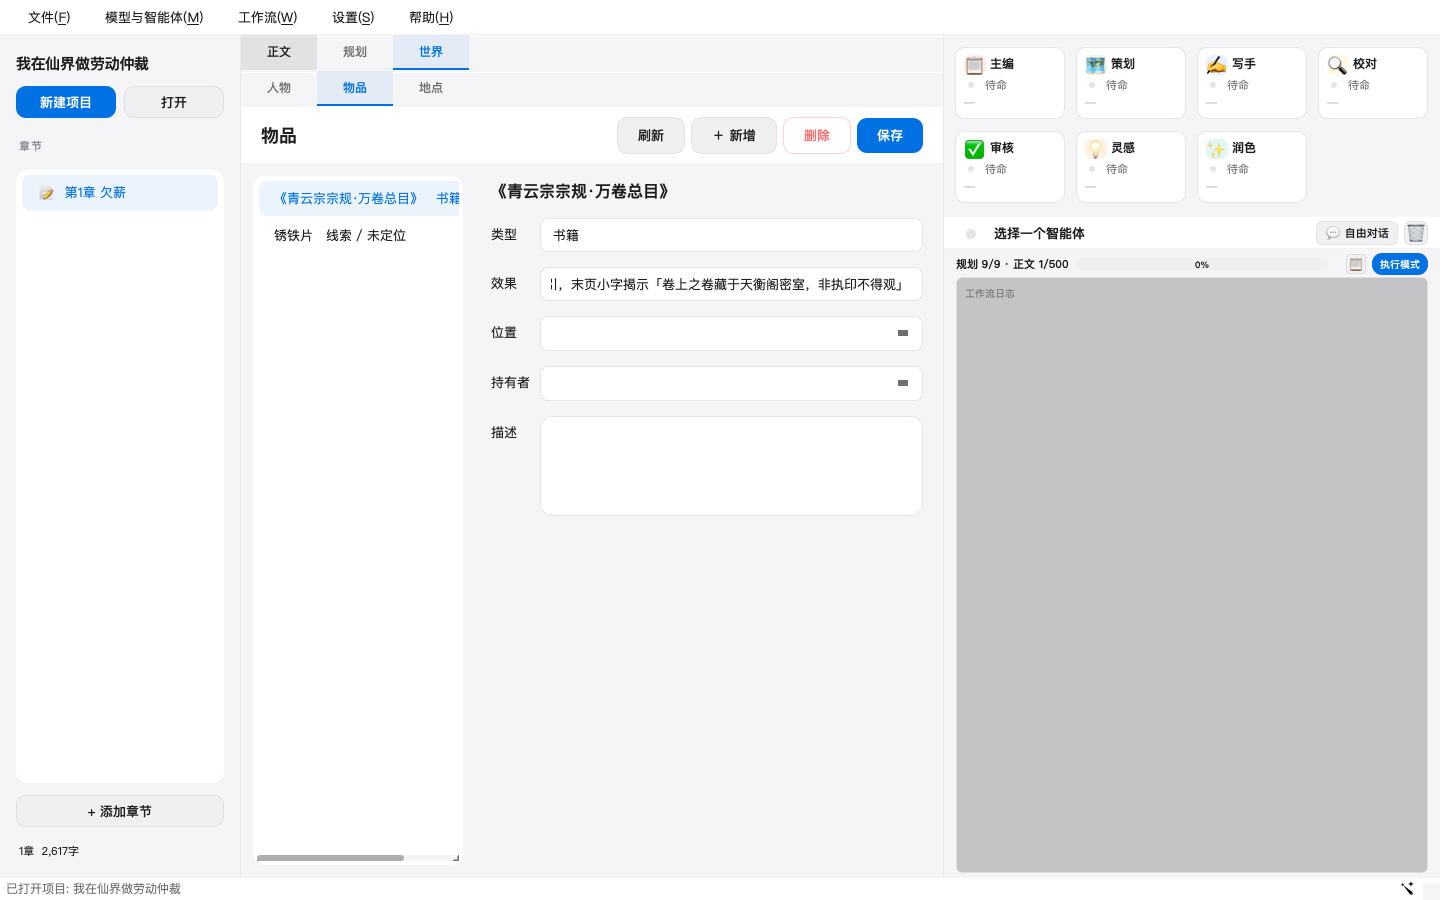
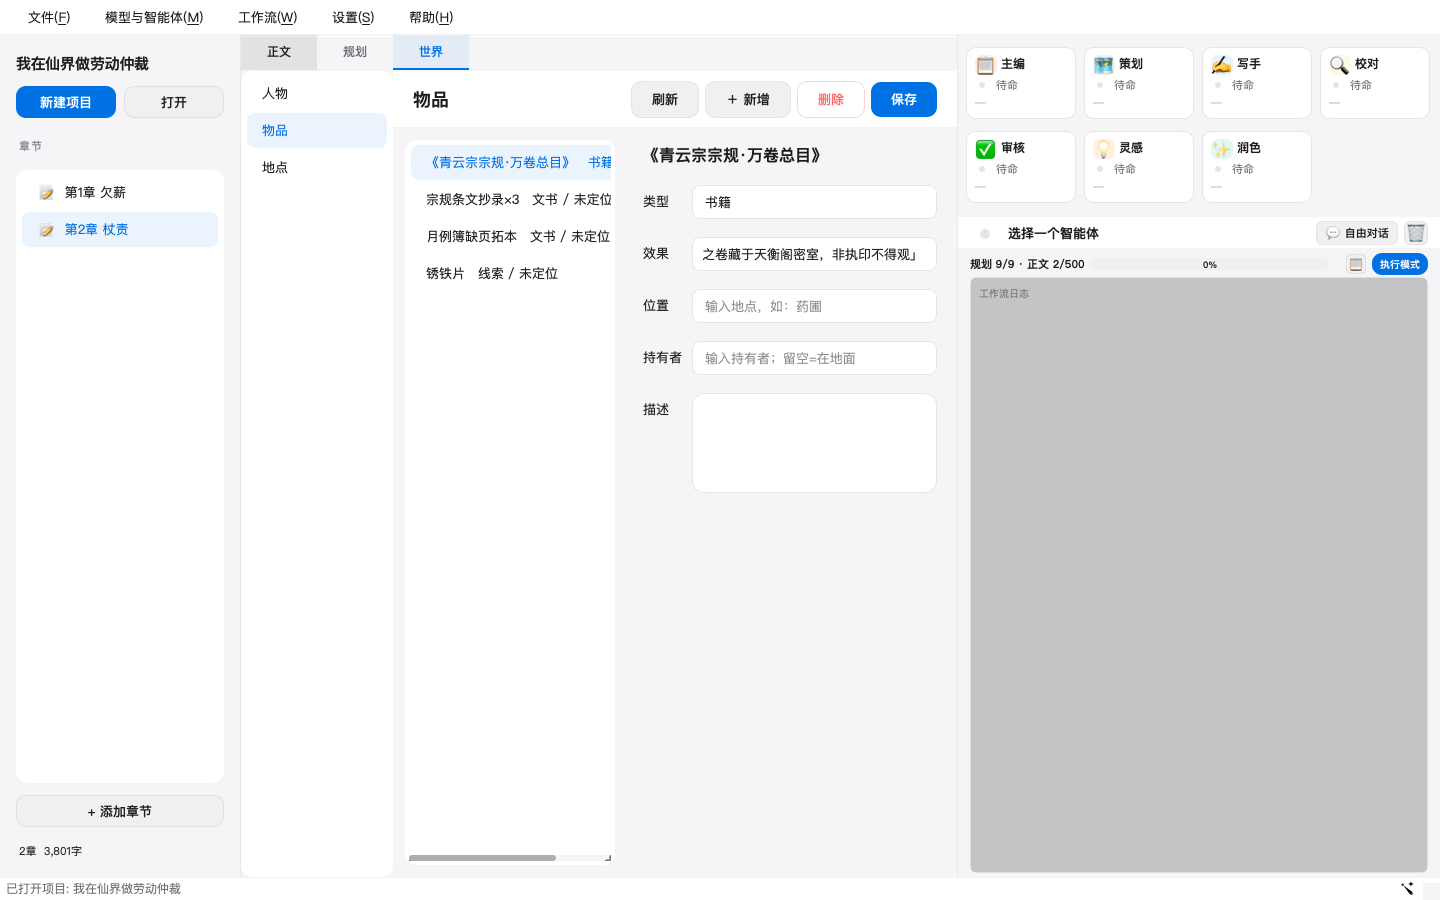
fix(ui): 世界页改左侧菜单；物品位置/持有者改输入框
- 人物/物品/地点改为与规划一致的左侧竖排菜单，去掉第二排横向 tab
- 物品位置、持有者改用 QLineEdit，可自由输入
- 地点页自动补全人物/物品引用到但未登记的地点
- 当前项目实测执事堂 3 人在场
- 300 passed

diff --git a/src/novel_writer/ui/character/world_page.py b/src/novel_writer/ui/character/world_page.py
@@ -5,8 +5,8 @@ from pathlib import Path
 
 from PySide6.QtCore import Qt
 from PySide6.QtWidgets import (
-    QComboBox, QFormLayout, QHBoxLayout, QInputDialog, QLabel, QLineEdit,
-    QListWidget, QListWidgetItem, QMessageBox, QPlainTextEdit, QPushButton,
+    QFormLayout, QHBoxLayout, QInputDialog, QLabel, QLineEdit,
+    QListWidget, QListWidgetItem, QMessageBox, QStackedWidget, QPlainTextEdit, QPushButton,
     QTabWidget, QVBoxLayout, QWidget,
 )
 
@@ -63,6 +63,7 @@ class _WorldBase(QWidget):
     def reload(self):
         if not self.gs:
             self.list.clear(); self.name_label.setText("打开项目后管理"); return
+        self.gs.load()
         self.list.blockSignals(True); self.list.clear()
         for name in self._names():
             item = QListWidgetItem(self._label(name)); item.setData(Qt.ItemDataRole.UserRole, name); self.list.addItem(item)
@@ -110,8 +111,10 @@ class ItemPage(_WorldBase):
         super()._setup_ui()
         self.type = QLineEdit(); self.form.addRow("类型", self.type)
         self.effect = QLineEdit(); self.form.addRow("效果", self.effect)
-        self.location = QComboBox(); self.location.setEditable(True); self.form.addRow("位置", self.location)
-        self.holder = QComboBox(); self.holder.setEditable(True); self.form.addRow("持有者", self.holder)
+        self.location = QLineEdit(); self.location.setPlaceholderText("输入地点，如：药圃")
+        self.form.addRow("位置", self.location)
+        self.holder = QLineEdit(); self.holder.setPlaceholderText("输入持有者；留空=在地面")
+        self.form.addRow("持有者", self.holder)
         self.desc = QPlainTextEdit(); self.desc.setMaximumHeight(100); self.form.addRow("描述", self.desc)
 
     def _names(self): return sorted((self.gs.items_catalog or {}).keys())
@@ -121,19 +124,18 @@ class ItemPage(_WorldBase):
         return f"{name}   {it.get('type','')} / {pos}"
 
     def _load(self, name):
-        self.location.clear(); self.holder.clear()
         if not self.gs: return
-        self.location.addItems(sorted(self.gs.locations.keys()))
-        self.holder.addItems(list(self.gs.characters.keys()))
-        self.location.setEditText(""); self.holder.setEditText("")
         if not name:
-            self.name_label.setText("还没有物品"); return
+            self.name_label.setText("还没有物品")
+            self.type.setText(""); self.effect.setText(""); self.location.setText("")
+            self.holder.setText(""); self.desc.setPlainText("")
+            return
         it = self.gs.items_catalog.get(name) or {}
         self.name_label.setText(name)
         self.type.setText(str(it.get("type") or ""))
         self.effect.setText(str(it.get("effect") or ""))
-        self.location.setEditText(str(it.get("location") or ""))
-        self.holder.setEditText(str(it.get("holder") or ""))
+        self.location.setText(str(it.get("location") or ""))
+        self.holder.setText(str(it.get("holder") or ""))
         self.desc.setPlainText(str(it.get("description") or ""))
 
     def _sync(self):
@@ -142,8 +144,8 @@ class ItemPage(_WorldBase):
         if not isinstance(it, dict): return
         it.update({"type": self.type.text().strip(), "effect": self.effect.text().strip(),
                    "description": self.desc.toPlainText().strip()})
-        self.gs.set_item_position(name, location=self.location.currentText().strip(),
-                                  holder=self.holder.currentText().strip())
+        self.gs.set_item_position(name, location=self.location.text().strip(),
+                                  holder=self.holder.text().strip())
 
     def _create(self, name): self.gs.add_item(name, {"type": "", "effect": "", "description": ""})
     def _remove(self, name): self.gs.items_catalog.pop(name, None)
@@ -161,7 +163,9 @@ class LocationPage(_WorldBase):
         self.people_hint = QLabel("人物所在地点请在「人物」页修改"); self.people_hint.setStyleSheet("font-size: 11px; color: gray;")
         self.form_layout.addWidget(self.people_hint)
 
-    def _names(self): return sorted((self.gs.locations or {}).keys())
+    def _names(self):
+        self.gs.sync_locations()
+        return self.gs.referenced_locations()
     def _label(self, name):
         loc = (self.gs.locations.get(name) or {})
         return f"{name}   {loc.get('type','')} · {len(self.gs.characters_at(name))}人"
@@ -170,6 +174,7 @@ class LocationPage(_WorldBase):
         if not self.gs: return
         if not name:
             self.name_label.setText("还没有地点"); self.occupants.setText(""); self.items.setText(""); return
+        self.gs.locations.setdefault(name, {})
         loc = self.gs.locations.get(name) or {}
         self.name_label.setText(name); self.type.setText(str(loc.get("type") or "")); self.desc.setPlainText(str(loc.get("description") or ""))
         people = self.gs.characters_at(name); items = self.gs.items_at(name)
@@ -178,7 +183,9 @@ class LocationPage(_WorldBase):
 
     def _sync(self):
         if not self.gs or self.name_label.text() in ("还没有地点", "打开项目后管理"): return
-        name = self.name_label.text(); loc = self.gs.locations.get(name)
+        name = self.name_label.text()
+        self.gs.locations.setdefault(name, {})
+        loc = self.gs.locations.get(name)
         if not isinstance(loc, dict): return
         loc.update({"type": self.type.text().strip(), "description": self.desc.toPlainText().strip()})
 
@@ -192,18 +199,33 @@ class LocationPage(_WorldBase):
 
 
 class WorldPage(QWidget):
-    """世界一级页：人物 / 物品 / 地点。"""
+    """世界一级页：左侧 人物/物品/地点 菜单，右侧内容。"""
     def __init__(self, parent=None):
         super().__init__(parent)
-        layout = QVBoxLayout(self); layout.setContentsMargins(0, 0, 0, 0)
-        self.tabs = QTabWidget(); self.tabs.setDocumentMode(True)
+        layout = QHBoxLayout(self); layout.setContentsMargins(0, 0, 0, 0); layout.setSpacing(0)
+        self.list = QListWidget()
+        self.list.setObjectName("planningList")
+        self.list.setFixedWidth(152)
+        self.list.setHorizontalScrollBarPolicy(Qt.ScrollBarPolicy.ScrollBarAlwaysOff)
         self.character_page = CharacterPage()
         self.item_page = ItemPage()
         self.location_page = LocationPage()
-        self.tabs.addTab(self.character_page, "人物")
-        self.tabs.addTab(self.item_page, "物品")
-        self.tabs.addTab(self.location_page, "地点")
-        layout.addWidget(self.tabs)
+        self.stack = QStackedWidget()
+        self.stack.addWidget(self.character_page)
+        self.stack.addWidget(self.item_page)
+        self.stack.addWidget(self.location_page)
+        for label, idx in (("人物", 0), ("物品", 1), ("地点", 2)):
+            item = QListWidgetItem(label); item.setData(Qt.ItemDataRole.UserRole, idx); self.list.addItem(item)
+        self.list.currentRowChanged.connect(self.select)
+        layout.addWidget(self.list); layout.addWidget(self.stack, 1)
+        self.list.setCurrentRow(0)
+
+    def select(self, index: int):
+        if 0 <= index < self.stack.count():
+            self.stack.setCurrentIndex(index)
+            page = self.stack.widget(index)
+            if page is not None:
+                page.reload()
 
     def set_project_dir(self, project_dir):
         self.character_page.set_project_dir(project_dir)

diff --git a/src/novel_writer/core/world_state.py b/src/novel_writer/core/world_state.py
@@ -74,6 +74,29 @@ class WorldState:
         if isinstance(info, dict):
             loc.update(info)
 
+    def referenced_locations(self) -> list[str]:
+        """人物所在地 + 物品所在地/持有者所在地，去重排序。"""
+        names: set[str] = set(self.locations.keys())
+        for c in self.characters.values():
+            if isinstance(c, dict) and c.get("location"):
+                names.add(str(c["location"]))
+        for item in self.items_catalog.values():
+            if not isinstance(item, dict):
+                continue
+            if item.get("location"):
+                names.add(str(item["location"]))
+            holder = item.get("holder")
+            if holder:
+                loc = (self.characters.get(holder) or {}).get("location")
+                if loc:
+                    names.add(str(loc))
+        return sorted(n for n in names if n)
+
+    def sync_locations(self) -> None:
+        """把人物/物品引用到、但 locations 里缺的地点补成空记录。"""
+        for name in self.referenced_locations():
+            self.locations.setdefault(name, {})
+
     def characters_at(self, location: str) -> list[str]:
         """地点当前有哪些人（从角色 location 反查，多对多只存一边）。"""
         return [n for n, c in self.characters.items()

diff --git a/src/novel_writer/ui/app_shell/chat_mixin.py b/src/novel_writer/ui/app_shell/chat_mixin.py
@@ -214,7 +214,7 @@ class ChatMixin:
             QMessageBox.information(self, t("menu_character_manage"), t("msg_no_project"))
             return
         self.editor.tab_bar.setCurrentIndex(2)
-        self.editor.world_page.tabs.setCurrentIndex(0)
+        self.editor.world_page.list.setCurrentRow(0)
 
     def _open_agent_manage(self):
         """打开 Agent 管理对话框。"""

diff --git a/src/novel_writer/core/workflow/context.py b/src/novel_writer/core/workflow/context.py
@@ -355,6 +355,7 @@ class ContextBuilder:
             if w.get("power_system", {}).get("levels"):
                 world_brief += f" | 等级: {' → '.join(w['power_system']['levels'])}"
             parts.append(f"=== 世界设定 ===\n{world_brief}")
+        gs.sync_locations()
         locs = gs.locations or {}
         if locs:
             lines = []

diff --git a/docs/项目全貌与代码地图.md b/docs/项目全貌与代码地图.md
@@ -78,7 +78,7 @@ Sidebar（200–320px）      EditorPanel（弹性）           AgentPanel（≥
                                                           └ 输入区（固定 132px）
 ```
 
-- **规划文档 9 个**：立意、大纲、章节细纲、人物设定、世界观、时间线、主线、支线、伏笔。顶部有「正文 / 规划 / 世界」三个标签，世界页内含人物/物品/地点，规划页左侧列表切换，内容懒加载，编辑 1.5s 防抖自动保存（`editor_panel.py`）。
+- **规划文档 9 个**：立意、大纲、章节细纲、人物设定、世界观、时间线、主线、支线、伏笔。顶部有「正文 / 规划 / 世界」三个标签，世界页左侧菜单含人物/物品/地点，规划页左侧列表切换，内容懒加载，编辑 1.5s 防抖自动保存（`editor_panel.py`）。
 - **专注模式**：`Ctrl+Shift+F` 隐藏左右栏，只留正文。
 - **Agent 线程**：`AgentWorker(QThread)` 自建 event loop 调 `agent.stream_run`，`chunk_received(kind,text)` 逐片回 UI，`thinking` 灰字、正文常规色。所有 worker 挂在模块级 `_ALIVE_WORKERS` 强引用，等内建 `finished` 再释放，避免「QThread: Destroyed while running」崩溃。
 - **工作流线程**：`WorkflowThread(QThread)` 在自身 loop 跑 `WorkflowRunner.run`，把 runner 的 3 个回调转成 Qt 信号（step_started/finished/error/progress/log/done/stopped）。停止 = 置 `_stop` + `task.cancel`，秒级中断 LLM 请求。

diff --git a/README.md b/README.md
@@ -122,7 +122,7 @@ data/                        # 用户数据（gitignore）
 - `max_context_tokens` 是**输入上下文预算**（默认 48K，设置里最高可到 1M），不是模型窗口本身；
 - 一级标签：`正文 / 规划 / 世界`；规划文档用左侧列表切换，不再有 10 个标签溢出；
 - 自由对话默认折叠，点右上「自由对话」展开；折叠时工作流日志自动占满剩余空间；聊天不落 SQLite；
-- `世界` 是独立页面，内含 **人物 / 物品 / 地点** 三个子页；人物分档/状态/auto_sim/目标/备注，物品记录类型/效果/位置/持有者，地点反查在场角色与地面物品；菜单 `Ctrl+Alt+R` 直接切到人物子页；从人物设定建卡时会自动去括号/角色前缀并推断 core/recurring/extra；自由对话带只读工具，可查大纲/正文/记忆/世界状态；
+- `世界` 是独立页面，内含 **人物 / 物品 / 地点** 三个左侧菜单页；人物分档/状态/auto_sim/目标/备注，物品记录类型/效果/位置/持有者，地点反查在场角色与地面物品；菜单 `Ctrl+Alt+R` 直接切到人物子页；从人物设定建卡时会自动去括号/角色前缀并推断 core/recurring/extra；自由对话带只读工具，可查大纲/正文/记忆/世界状态；
 - 智能体状态条按 4 列两行展示，超过 8 个纵向滚动。
 
 ## 写作流程

diff --git a/docs/UI设计审查.md b/docs/UI设计审查.md
@@ -26,7 +26,7 @@
 
 ![世界页 · 人物](assets/ui/characters-page.png)
 
-**物品 / 地点子页**
+**物品 / 地点（世界页左侧菜单）**
 
 ![物品](assets/ui/world-item.png)
 
